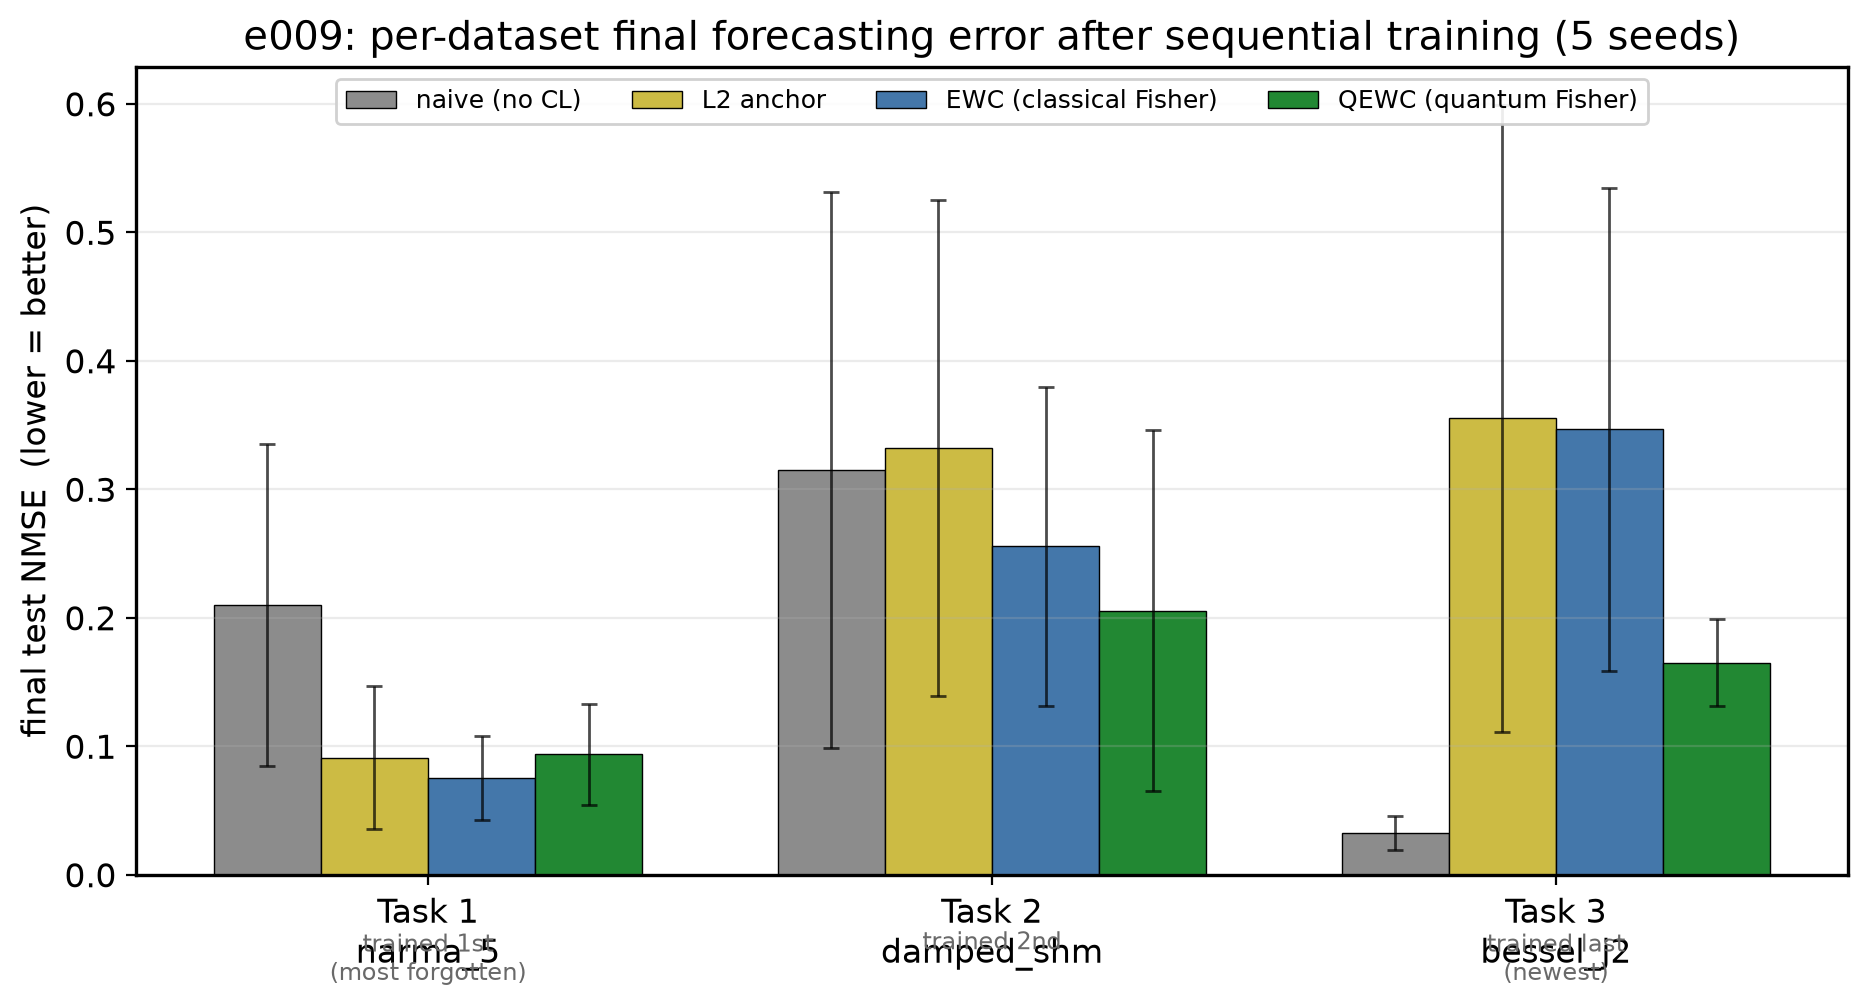
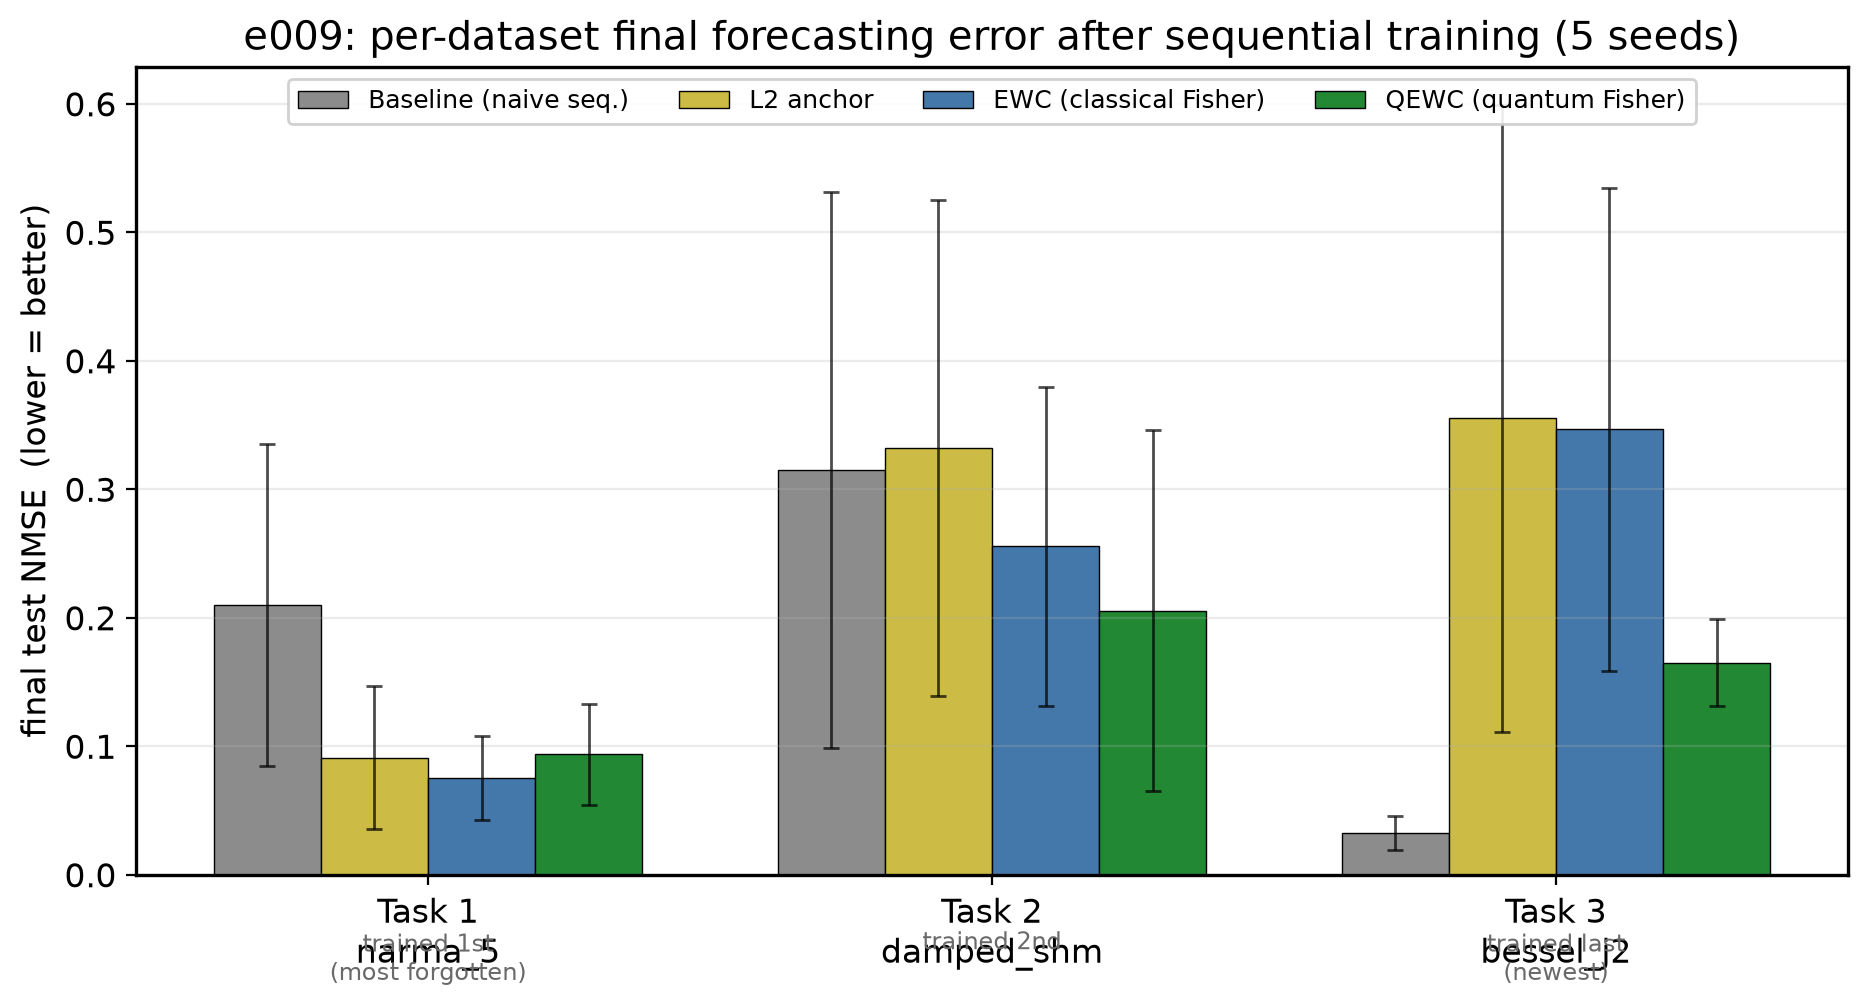
experiment(e009): label naive as Baseline to match arXiv:2607.16030 presentation

Changed region(s): [[0.1552, 0.0615, 0.9004, 0.123]]

diff --git a/scripts/e009_plot.py b/scripts/e009_plot.py
@@ -22,7 +22,7 @@ OUT = ROOT / "figures" / "e009_forgetting.png"
 
 # method -> (label, color, linestyle). Replay is a classical, model-agnostic method and is
 # omitted here to focus on the quantum-model regularizers (QEWC = quantum Fisher).
-STYLE = {"naive": ("naive (no CL)", "0.45", "--"),
+STYLE = {"naive": ("Baseline (naive seq.)", "0.45", "--"),
          "l2": ("L2 anchor", "#CCBB44", "-."),
          "ewc": ("EWC (classical Fisher)", "#4477AA", "-."),
          "qewc": ("QEWC (quantum Fisher)", "#228833", "-")}

diff --git a/scripts/e009_plot_train.py b/scripts/e009_plot_train.py
@@ -21,7 +21,7 @@ RESULT = ROOT / "results" / "e009_multiseed.json"
 OUT = ROOT / "figures" / "e009_training.png"
 
 # Replay (classical, model-agnostic) omitted to focus on the quantum-model regularizers.
-STYLE = {"naive": ("naive (no CL)", "0.45", "--"),
+STYLE = {"naive": ("Baseline (naive seq.)", "0.45", "--"),
          "l2": ("L2 anchor", "#CCBB44", "-."),
          "ewc": ("EWC (classical Fisher)", "#4477AA", "-."),
          "qewc": ("QEWC (quantum Fisher)", "#228833", "-")}

diff --git a/scripts/e009_plot_compare.py b/scripts/e009_plot_compare.py
@@ -21,7 +21,7 @@ RESULT = ROOT / "results" / "e009_multiseed.json"
 OUT = ROOT / "figures" / "e009_compare.png"
 
 # Replay (classical, model-agnostic) omitted to focus on the quantum-model regularizers.
-STYLE = {"naive": ("naive (no CL)", "0.55"), "l2": ("L2 anchor", "#CCBB44"),
+STYLE = {"naive": ("Baseline (naive seq.)", "0.55"), "l2": ("L2 anchor", "#CCBB44"),
          "ewc": ("EWC (classical Fisher)", "#4477AA"), "qewc": ("QEWC (quantum Fisher)", "#228833")}
 
 
